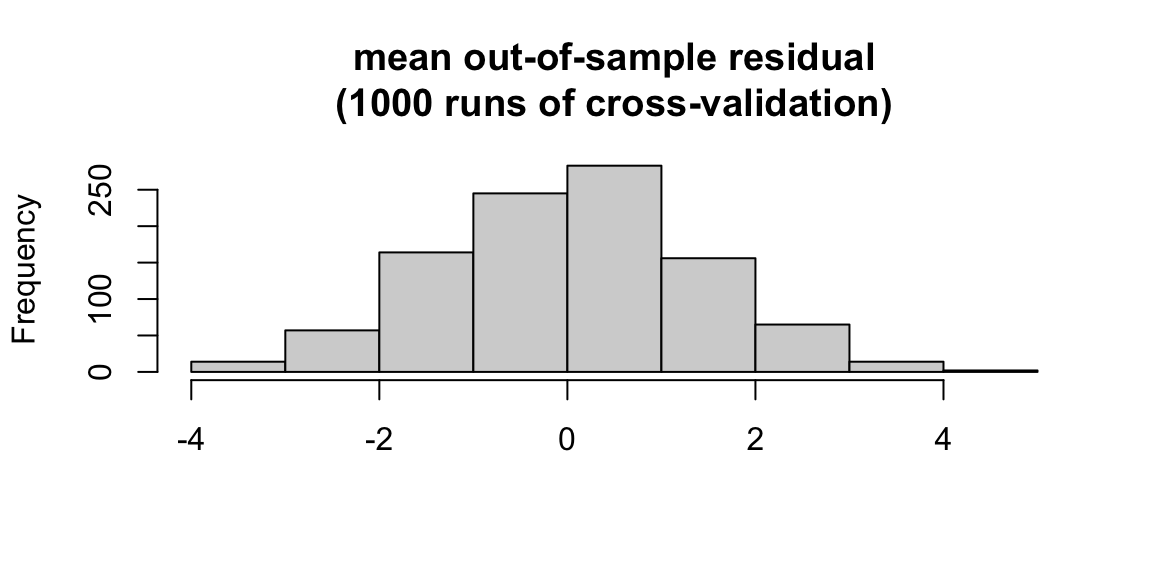
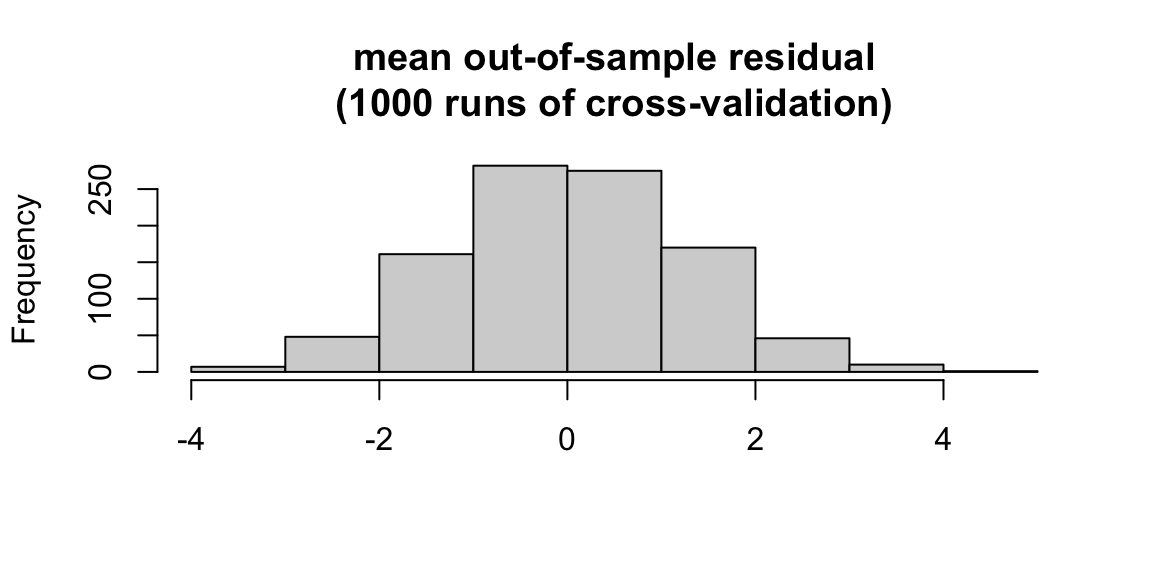
blog post 2 update

diff --git a/public/post/2022-09-19-local-and-national-economy/index.html b/public/post/2022-09-19-local-and-national-economy/index.html
@@ -70,12 +70,6 @@
 <p><strong>Blog Extension: Model Evaluation. Build multiple predictive models using national economic variables as predictors. Compare those models using the tools we learned today. How much is your 2022 prediction sensitive to the change of measure(s)? What does it tell us about the economic model of voting behavior?</strong></p>
 <p>Last week, my dive into the 2018 election results and swings confirmed that the president’s party often performs poorly in the midterms. By the 2020 House elections, the president’s party gained some of its vote share back.</p>
 <p>This week, I temporarily move away from cyclical election study to delve into one of the most promising ways to predict election outcomes – economics. Retrospective voting, a model of voting in which voters elect leaders based off of recent experiences and judgment of welfare under incumbent leadership, dictates that for many elections, the results largely rely on the state of the economy in the last quarter of the election cycle (Achen &amp; Bartels, 2017). For presidential elections, this means that national economic variables like GDP (gross domestic product), unemployment, and RDI (real disposable income) can account for a lot of the variation in incumbent candidate popularity. <strong>I explore this relationship between national economic variables and incumbent vote share, but for House races from 1948 to 2020. I want to know which variables accurately predict House incumbent party vote share, and build a model accordingly. Lastly, I will test my model with data from 2020 to see how well it would’ve predicted the last election.</strong></p>
-<p>I compare the results of 2016 House election, specifically the House Democratic Party vote share at the state level, to those of the 2018 midterm House election to see the extent to which the common theme of incumbent disadvantage applied to the House election results. I then compare the House Democratic vote share of the 2018 election to the 2020 House election, which saw the election of Joseph R. Biden. <strong>My hope is to identify the trends in House election swings in the Trump era. As we near the 2022 midterms, where the Democratic president’s party is campaigning hard to retain House control, it’ll be increasingly important to know which states have shown increased support for House Democrats in recent years</strong></p>
-<p>To answer this question, I pulled data about the House party vote shares for 2016, 2018, and 2020. I show 2018-2016 and 2020-2018 comparison maps, which consist of states colored by the quantity <span class="math inline">\(\frac{D_y}{D_y + R_y} - \frac{D_{y - 2}}{D_{y - 2} + R_{y - 2}}\)</span>. This quantity is a measure of state swing in Democratic Party vote share for that House election, since the previous one. Below is the 2018-2016 swing map - negative (red) values show a decline in (D) House vote share in a given state since 2016, positive (blue) values show the opposite, and near-zero (white) values represent no change in (D) House vote.</p>
-<p>My analysis confirms that the House elections of the 2018 midterms followed the traditional pattern of the president’s party performing rather poorly – With the exception of Connecticut, Hawaii, Massachusetts, Vermont, and Wyoming, the Democrats gained vote share in every state in comparison to the 2016 House elections. This pattern of president’s party disadvantage in midterms has been upheld at an incredibly high rate throughout the 20th and 21st century, and it is expected to hold in this year’s midterm elections.</p>
-<p>However, this swing against the executive party may reverse by the next House elections, and this was indeed true in 2020.</p>
-<p>Unlike the previous swing comparison, the 2020-2018 comparison reveals that most states saw a decline in (D) party vote share in the House elections of 2020. Florida, Georgia, North Carolina, Rhode Island, and Maine were the only states to not see a decline in (D) House vote share. Georgia was an anomaly, and huge victory for the Democrats, in the 2020 elections, where less than 13,000 popular votes (Politico) determined Biden’s victory in the electoral college and one House seat was flipped by the Democrats in district 7. Other than these 5 states, the Democrats lost vote share in nearly every state House election the Democrats but clinched the presidency by a decent margin (about 4 percentage points, Cook Political Report).</p>
-<p>My dive into the 2018 and 2020 House election results and swings has revealed several observations: (1) Because the president’s party has always been known to suffer during midterms, and this tradition remained true in the 2018 midterms, it should be expected that the Democrats see this same poor performance in November. (2) Looking beyond the midterms, Democrats may be relieved to hear that the president’s party does seem to get some of their vote share back in House elections by the next general election. We saw that in 2020, House vote shares declined for Democrats in nearly all states. (3) It is important to study swings and temporally relative party performance to see how voters move in preference over different House elections, but it is also very important to study the House elections move in absolute terms – although observation (2) recognized that the president’s party does gain a lot of its lost House vote share back by the general election, 2020 showed us that this gain was ultimately not enough, with the challenger party taking the House, the Senate (by a hair), and the presidency.</p>
 <p><img src="http://example.org/post/2022-09-19-local-and-national-economy/index_files/figure-html/unnamed-chunk-3-1.png" width="60%" style="display: block; margin: auto;" /><img src="http://example.org/post/2022-09-19-local-and-national-economy/index_files/figure-html/unnamed-chunk-3-2.png" width="60%" style="display: block; margin: auto;" /><img src="http://example.org/post/2022-09-19-local-and-national-economy/index_files/figure-html/unnamed-chunk-3-3.png" width="60%" style="display: block; margin: auto;" /></p>
 <div id="bivariate-correlation-of-gdp-and-pv" class="section level2">
 <h2>Bivariate correlation of GDP / and PV</h2>
@@ -261,7 +255,7 @@ outsamp_pred &lt;- predict(mod,
                 newdata = newdf[newdf$year %in%
                                  years_outsamp,])</code></pre>
 <pre class="r"><code>mean(outsamp_pred - newdf$H_incumbent_party_majorvote_pct[newdf$year %in% years_outsamp])</code></pre>
-<pre><code>## [1] -2.192778</code></pre>
+<pre><code>## [1] 0.4241447</code></pre>
 <p></p>
 </div>
 <div id="model-testing-2" class="section level2">
@@ -293,7 +287,7 @@ mean(outsamp_pred - outsamp_true)</code></pre>
 <h2>Model Testing</h2>
 <p><img src="http://example.org/post/2022-09-19-local-and-national-economy/index_files/figure-html/unnamed-chunk-18-1.png" width="70%" style="display: block; margin: auto;" /></p>
 <pre class="r"><code>mean(abs(outsamp_errors))</code></pre>
-<pre><code>## [1] 1.100149</code></pre>
+<pre><code>## [1] 1.04579</code></pre>
 <pre class="r"><code># Residuals
 plot(fitted(lm_model), resid(lm_model))
 abline(0, 0)</code></pre>
@@ -378,7 +372,7 @@ newdf %&gt;%
         		<footer>
 			
 			<span>
-			&copy; <time datetime="2022-09-19 13:33:02.889112 -0400 EDT m=&#43;0.245209508">2022</time> . Made with <a href='https://gohugo.io'>Hugo</a> using the <a href='https://github.com/EmielH/tale-hugo/'>Tale</a> theme.
+			&copy; <time datetime="2022-09-19 13:35:56.745171 -0400 EDT m=&#43;0.214160969">2022</time> . Made with <a href='https://gohugo.io'>Hugo</a> using the <a href='https://github.com/EmielH/tale-hugo/'>Tale</a> theme.
 			</span>
 		</footer>
 

diff --git a/content/post/2022-09-19-local-and-national-economy/index.html b/content/post/2022-09-19-local-and-national-economy/index.html
@@ -15,12 +15,6 @@ tags: []
 <p><strong>Blog Extension: Model Evaluation. Build multiple predictive models using national economic variables as predictors. Compare those models using the tools we learned today. How much is your 2022 prediction sensitive to the change of measure(s)? What does it tell us about the economic model of voting behavior?</strong></p>
 <p>Last week, my dive into the 2018 election results and swings confirmed that the president’s party often performs poorly in the midterms. By the 2020 House elections, the president’s party gained some of its vote share back.</p>
 <p>This week, I temporarily move away from cyclical election study to delve into one of the most promising ways to predict election outcomes – economics. Retrospective voting, a model of voting in which voters elect leaders based off of recent experiences and judgment of welfare under incumbent leadership, dictates that for many elections, the results largely rely on the state of the economy in the last quarter of the election cycle (Achen &amp; Bartels, 2017). For presidential elections, this means that national economic variables like GDP (gross domestic product), unemployment, and RDI (real disposable income) can account for a lot of the variation in incumbent candidate popularity. <strong>I explore this relationship between national economic variables and incumbent vote share, but for House races from 1948 to 2020. I want to know which variables accurately predict House incumbent party vote share, and build a model accordingly. Lastly, I will test my model with data from 2020 to see how well it would’ve predicted the last election.</strong></p>
-<p>I compare the results of 2016 House election, specifically the House Democratic Party vote share at the state level, to those of the 2018 midterm House election to see the extent to which the common theme of incumbent disadvantage applied to the House election results. I then compare the House Democratic vote share of the 2018 election to the 2020 House election, which saw the election of Joseph R. Biden. <strong>My hope is to identify the trends in House election swings in the Trump era. As we near the 2022 midterms, where the Democratic president’s party is campaigning hard to retain House control, it’ll be increasingly important to know which states have shown increased support for House Democrats in recent years</strong></p>
-<p>To answer this question, I pulled data about the House party vote shares for 2016, 2018, and 2020. I show 2018-2016 and 2020-2018 comparison maps, which consist of states colored by the quantity <span class="math inline">\(\frac{D_y}{D_y + R_y} - \frac{D_{y - 2}}{D_{y - 2} + R_{y - 2}}\)</span>. This quantity is a measure of state swing in Democratic Party vote share for that House election, since the previous one. Below is the 2018-2016 swing map - negative (red) values show a decline in (D) House vote share in a given state since 2016, positive (blue) values show the opposite, and near-zero (white) values represent no change in (D) House vote.</p>
-<p>My analysis confirms that the House elections of the 2018 midterms followed the traditional pattern of the president’s party performing rather poorly – With the exception of Connecticut, Hawaii, Massachusetts, Vermont, and Wyoming, the Democrats gained vote share in every state in comparison to the 2016 House elections. This pattern of president’s party disadvantage in midterms has been upheld at an incredibly high rate throughout the 20th and 21st century, and it is expected to hold in this year’s midterm elections.</p>
-<p>However, this swing against the executive party may reverse by the next House elections, and this was indeed true in 2020.</p>
-<p>Unlike the previous swing comparison, the 2020-2018 comparison reveals that most states saw a decline in (D) party vote share in the House elections of 2020. Florida, Georgia, North Carolina, Rhode Island, and Maine were the only states to not see a decline in (D) House vote share. Georgia was an anomaly, and huge victory for the Democrats, in the 2020 elections, where less than 13,000 popular votes (Politico) determined Biden’s victory in the electoral college and one House seat was flipped by the Democrats in district 7. Other than these 5 states, the Democrats lost vote share in nearly every state House election the Democrats but clinched the presidency by a decent margin (about 4 percentage points, Cook Political Report).</p>
-<p>My dive into the 2018 and 2020 House election results and swings has revealed several observations: (1) Because the president’s party has always been known to suffer during midterms, and this tradition remained true in the 2018 midterms, it should be expected that the Democrats see this same poor performance in November. (2) Looking beyond the midterms, Democrats may be relieved to hear that the president’s party does seem to get some of their vote share back in House elections by the next general election. We saw that in 2020, House vote shares declined for Democrats in nearly all states. (3) It is important to study swings and temporally relative party performance to see how voters move in preference over different House elections, but it is also very important to study the House elections move in absolute terms – although observation (2) recognized that the president’s party does gain a lot of its lost House vote share back by the general election, 2020 showed us that this gain was ultimately not enough, with the challenger party taking the House, the Senate (by a hair), and the presidency.</p>
 <p><img src="{{< blogdown/postref >}}index_files/figure-html/unnamed-chunk-3-1.png" width="60%" style="display: block; margin: auto;" /><img src="{{< blogdown/postref >}}index_files/figure-html/unnamed-chunk-3-2.png" width="60%" style="display: block; margin: auto;" /><img src="{{< blogdown/postref >}}index_files/figure-html/unnamed-chunk-3-3.png" width="60%" style="display: block; margin: auto;" /></p>
 <div id="bivariate-correlation-of-gdp-and-pv" class="section level2">
 <h2>Bivariate correlation of GDP / and PV</h2>
@@ -206,7 +200,7 @@ outsamp_pred &lt;- predict(mod,
                 newdata = newdf[newdf$year %in%
                                  years_outsamp,])</code></pre>
 <pre class="r"><code>mean(outsamp_pred - newdf$H_incumbent_party_majorvote_pct[newdf$year %in% years_outsamp])</code></pre>
-<pre><code>## [1] -2.192778</code></pre>
+<pre><code>## [1] 0.4241447</code></pre>
 <p></p>
 </div>
 <div id="model-testing-2" class="section level2">
@@ -238,7 +232,7 @@ mean(outsamp_pred - outsamp_true)</code></pre>
 <h2>Model Testing</h2>
 <p><img src="{{< blogdown/postref >}}index_files/figure-html/unnamed-chunk-18-1.png" width="70%" style="display: block; margin: auto;" /></p>
 <pre class="r"><code>mean(abs(outsamp_errors))</code></pre>
-<pre><code>## [1] 1.100149</code></pre>
+<pre><code>## [1] 1.04579</code></pre>
 <pre class="r"><code># Residuals
 plot(fitted(lm_model), resid(lm_model))
 abline(0, 0)</code></pre>

diff --git a/public/index.html b/public/index.html
@@ -94,7 +94,7 @@ Over the next several weeks, I will be exploring previous U.S. elections data to
         		<footer>
 			
 			<span>
-			&copy; <time datetime="2022-09-19 13:33:02.869668 -0400 EDT m=&#43;0.225765780">2022</time> . Made with <a href='https://gohugo.io'>Hugo</a> using the <a href='https://github.com/EmielH/tale-hugo/'>Tale</a> theme.
+			&copy; <time datetime="2022-09-19 13:35:56.730857 -0400 EDT m=&#43;0.199847069">2022</time> . Made with <a href='https://gohugo.io'>Hugo</a> using the <a href='https://github.com/EmielH/tale-hugo/'>Tale</a> theme.
 			</span>
 		</footer>
 

diff --git a/public/post/2022-09-15-analzying-2020-house-vote-shares/index.html b/public/post/2022-09-15-analzying-2020-house-vote-shares/index.html
@@ -97,7 +97,7 @@ Unlike the previous swing comparison, the 2020-2018 comparison reveals that most
         		<footer>
 			
 			<span>
-			&copy; <time datetime="2022-09-19 13:33:02.875016 -0400 EDT m=&#43;0.231113799">2022</time> . Made with <a href='https://gohugo.io'>Hugo</a> using the <a href='https://github.com/EmielH/tale-hugo/'>Tale</a> theme.
+			&copy; <time datetime="2022-09-19 13:35:56.731025 -0400 EDT m=&#43;0.200015021">2022</time> . Made with <a href='https://gohugo.io'>Hugo</a> using the <a href='https://github.com/EmielH/tale-hugo/'>Tale</a> theme.
 			</span>
 		</footer>
 

diff --git a/public/post/index.html b/public/post/index.html
@@ -89,7 +89,7 @@ Over the next several weeks, I will be exploring previous U.S. elections data to
         		<footer>
 			
 			<span>
-			&copy; <time datetime="2022-09-19 13:33:02.869699 -0400 EDT m=&#43;0.225796480">2022</time> . Made with <a href='https://gohugo.io'>Hugo</a> using the <a href='https://github.com/EmielH/tale-hugo/'>Tale</a> theme.
+			&copy; <time datetime="2022-09-19 13:35:56.73099 -0400 EDT m=&#43;0.199979754">2022</time> . Made with <a href='https://gohugo.io'>Hugo</a> using the <a href='https://github.com/EmielH/tale-hugo/'>Tale</a> theme.
 			</span>
 		</footer>
 

diff --git a/public/categories/index.html b/public/categories/index.html
@@ -57,7 +57,7 @@
         		<footer>
 			
 			<span>
-			&copy; <time datetime="2022-09-19 13:33:02.866739 -0400 EDT m=&#43;0.222837281">2022</time> . Made with <a href='https://gohugo.io'>Hugo</a> using the <a href='https://github.com/EmielH/tale-hugo/'>Tale</a> theme.
+			&copy; <time datetime="2022-09-19 13:35:56.723582 -0400 EDT m=&#43;0.192572069">2022</time> . Made with <a href='https://gohugo.io'>Hugo</a> using the <a href='https://github.com/EmielH/tale-hugo/'>Tale</a> theme.
 			</span>
 		</footer>
 

diff --git a/public/tags/index.html b/public/tags/index.html
@@ -57,7 +57,7 @@
         		<footer>
 			
 			<span>
-			&copy; <time datetime="2022-09-19 13:33:02.867848 -0400 EDT m=&#43;0.223945943">2022</time> . Made with <a href='https://gohugo.io'>Hugo</a> using the <a href='https://github.com/EmielH/tale-hugo/'>Tale</a> theme.
+			&copy; <time datetime="2022-09-19 13:35:56.725512 -0400 EDT m=&#43;0.194502245">2022</time> . Made with <a href='https://gohugo.io'>Hugo</a> using the <a href='https://github.com/EmielH/tale-hugo/'>Tale</a> theme.
 			</span>
 		</footer>
 
